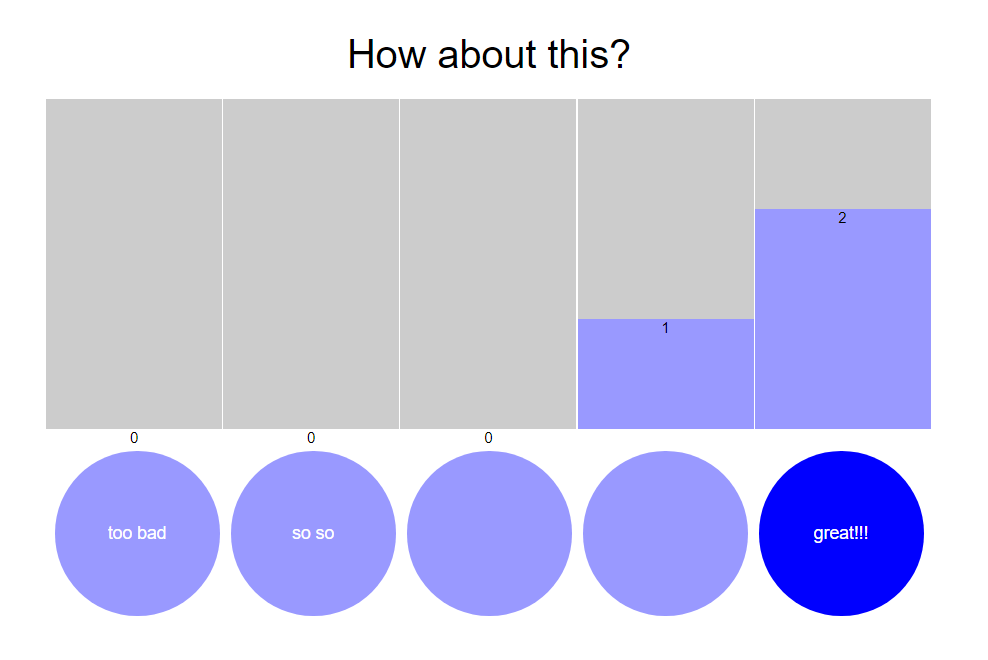
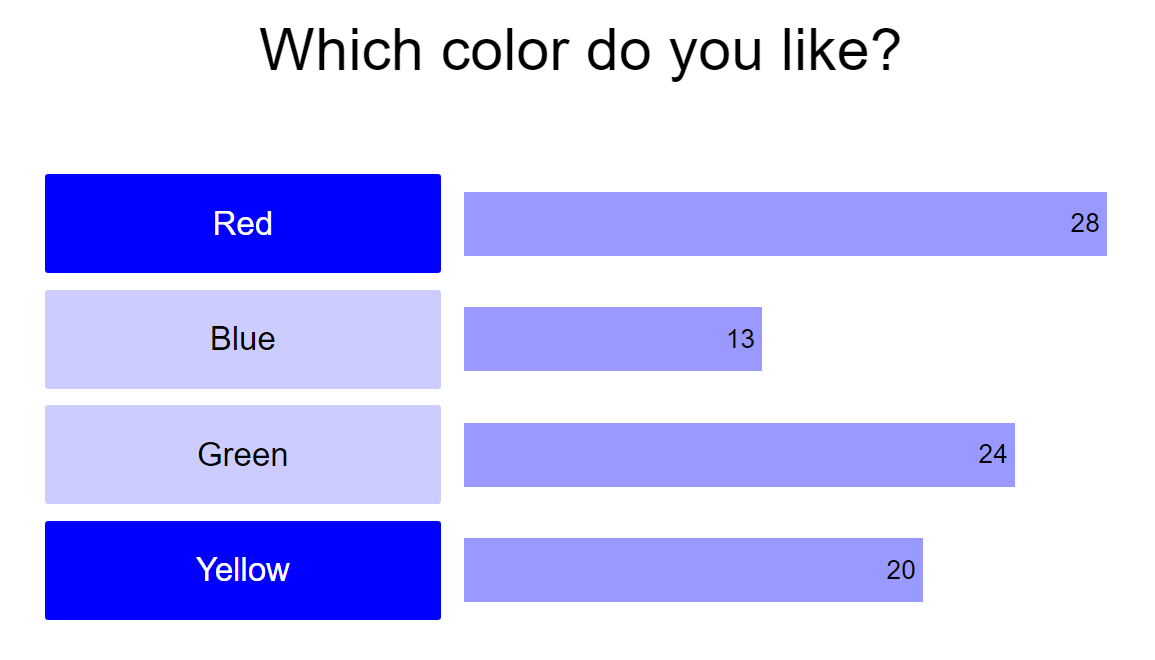
add multi-choice poll

diff --git a/public/stylesheets/style.css b/public/stylesheets/style.css
@@ -157,12 +157,12 @@ body {
 .message_post_button{
   width:100px;
   height:72px;
-  background-color: #9C9;
+  background-color: #99F;
 }
 
 .message_post_button:disabled{
   cursor: default;
-  color: #9C9;
+  color: #669;
   opacity: 0.6;
 }
 
@@ -195,7 +195,7 @@ body {
   display: inline-block;
   width:70px;
   height:64px;
-  background-color: #9C9;
+  background-color: #99F;
 }
 
 .agree_number_area{
@@ -205,8 +205,8 @@ body {
   font-size: 24px;
   height:64px;
   width:70px;
-  background-color: #9C9;
-  border:solid 1px #9C9;
+  background-color: #CCF;
+  border:solid 1px #CCF;
 }
 
 .list_message_area{
@@ -219,11 +219,11 @@ body {
   white-space: pre-wrap;
   overflow: auto;
   line-height: 16px;
-  border:solid 1px #9C9;
+  border:solid 1px #99F;
 }
 
 .same_message_area{
-  background-color: #CFC;
+  background-color: #CCF;
 }
 
 .v-enter-active, .v-leave-active {
@@ -286,6 +286,12 @@ body {
 .make_poll_input{
   font-size: 20px;
   margin-left:5px;
+}
+
+.make_poll_input_number{
+  font-size: 20px;
+  margin-left:5px;
+  width:100px;
 }
 
 .make_poll_botton_new{
@@ -462,10 +468,6 @@ body {
   transition-duration: .3s
 }
 
-.emphasizeBar{
-  background-color: #FF6;
-}
-
 .survey_button_area{
   width:160px;
 }
@@ -491,10 +493,58 @@ body {
   background: blue;
 }
 
+.space{
+  margin:50px;
+}
+
+.multi_survey_line_area{
+  text-align: left;
+  width:650px;
+  height:70px;
+  background-color: #FFF;
+  margin:auto;
+}
+
+.multi_survey_button_area{
+  vertical-align:middle;
+  display: inline-block;
+  width:250px;
+  height:70px;
+}
+.multi_survey_button{
+  width:240px;
+  height:60px;
+  font-size:20px;
+  background:#CCF;
+  margin-top:5px;
+  border:none;
+}
+
+.multi_survey_button_on{
+  background-color: #00F;
+  color:#FFF;
+}
+
+.multi_survey_bar_area{
+  vertical-align: middle;
+  display: inline-block;
+  width: 0px;
+  font-size: 16px;
+  color: #000;
+  background-color: #99F;
+  text-align: right;
+  padding:10px 0px 10px 0px;
+  transition-duration: .3s
+}
+
 .map_area{
   margin:auto;
   margin-top:50px;
   position: relative;
+}
+
+.emphasizeBar{
+  background-color: #FF6;
 }
 
 @keyframes pin_animation{
@@ -540,10 +590,6 @@ body {
     background-color: #CCC;
   }
 
-  .emphasizeBar{
-    background-color: #FF6;
-  }
-  
   .survey_button_area{
     width:60px;
   }
@@ -643,6 +689,30 @@ body {
 
   .votedBatsuStyle{
     font-size:80px;
+  }
+
+  .space{
+    margin:20px;
+  }
+
+  .multi_survey_line_area{
+    width:320px;
+  }
+  
+  .multi_survey_button_area{
+    width:130px;
+  }
+  .multi_survey_button{
+    width:120px;
+    font-size: 16px;
+  }
+  
+  .multi_survey_bar_area{
+    width: 0px;
+  }
+
+  .emphasizeBar{
+    background-color: #FF6;
   }
 
 }

diff --git a/modules/voteRouter.js b/modules/voteRouter.js
@@ -94,8 +94,34 @@ module.exports = function(io) {
                 next(createError(404));
             }
         }
-
     });
+
+    router.get('/multi', function(req, res, next) {
+        const title = req.query.title
+        const type  = req.query.type
+        let num = req.query.num
+        if(isNaN(num)) num = 5
+        const constraint = req.query.constraint
+        const ds = req.query.ds? JSON.parse(req.query.ds) : []
+
+        if(process.env.ANONYMOUS=="true"){
+            let checked = voteBox.checkPoll(title)
+            if(checked){
+                res.render('multi', { title: title, num:checked.METADATA.NUM, ds:checked.METADATA.DS, constraint:checked.METADATA.CONSTRAINT});
+            }else{
+                makeNewMultiVote(title,num,ds,constraint)
+                res.render('multi', { title: title, num:num, ds:ds, constraint:constraint});
+            }
+        }else{
+            let checked = voteBox.checkPoll(title)
+            if(checked){
+                res.render('multi', { title: title, num:checked.METADATA.NUM, ds:checked.METADATA.DS, constraint:checked.METADATA.CONSTRAINT});
+            }else{
+                next(createError(404));
+            }
+        }
+    });
+
 
     router.get('/map', function(req, res, next) {
         const title = req.query.title
@@ -173,6 +199,10 @@ module.exports = function(io) {
 
     function makeNewSurveyVote(title,num,d1,d2,d3,d4,d5){
         voteBox.setMetadata(title,"SURVEY",{"STEP":num,"D1":d1,"D2":d2,"D3":d3,"D4":d4,"D5":d5})
+    }
+
+    function makeNewMultiVote(title,num,ds,constraint){
+        voteBox.setMetadata(title,"MULTI",{"NUM":num,"DS":ds,"CONSTRAINT":constraint})
     }
 
     function makeNewMapVote(title,image,width){

diff --git a/modules/votebox.js b/modules/votebox.js
@@ -27,11 +27,10 @@ class VoteBox {
 
     static vote(title,sessionid,vote) {
         this.votebox[title]["RESULT"][sessionid]=vote
+//        for Test
+//        this.votebox[title]["RESULT"][sessionid+Date.now()]=vote
     }
 
-//    static vote(title,sessionid,vote) {
-//        this.votebox[title]["RESULT"][sessionid+Date.now()]=vote
-//    }
 
     static voteMulti(title,sessionid,vote) {
         this.votebox[title]["RESULT"][sessionid+Date.now()]=vote
@@ -99,6 +98,16 @@ class VoteBox {
             for(let key in result){
                 returnBox[result[key]] = (returnBox[result[key]])? returnBox[result[key]]+1 : 1;
             }
+        }else if(type === "MULTI"){
+            returnBox["NUM"]=this.votebox[title]["METADATA"]["NUM"]
+            returnBox["DS"]=this.votebox[title]["METADATA"]["DS"]
+            returnBox["CONSTRAINT"]=this.votebox[title]["METADATA"]["CONSTRAINT"]
+            let result = this.votebox[title]["RESULT"]
+            let countup = new Array(Number(returnBox["NUM"])).fill(0)
+            for(let key in result){
+                countup = result[key].map((el,index)=>countup[index]+=el)
+            }
+            returnBox["COUNTUP"]=countup
         }else if(type === "MAP"){
             returnBox["IMG"] =this.votebox[title]["METADATA"]["IMG"]
             returnBox["IMG_w"] =this.votebox[title]["METADATA"]["IMG_w"]

diff --git a/modules/controlRouter.js b/modules/controlRouter.js
@@ -21,6 +21,10 @@ module.exports = function(io) {
         voteBox.setMetadata(title,"SURVEY",{"STEP":num,"D1":d1,"D2":d2,"D3":d3,"D4":d4,"D5":d5})
     }
 
+    function makeNewMultiVote(title,num,ds,constraint){
+        voteBox.setMetadata(title,"MULTI",{"NUM":num,"DS":ds,"CONSTRAINT":constraint})
+    }
+
     function makeNewMapVote(title,image,width){
         voteBox.setMetadata(title,"MAP",{"IMG":image,"IMG_w":width})
     }
@@ -75,6 +79,14 @@ module.exports = function(io) {
                 if(num < 2 || num > 5) num=5
 
                 makeNewSurveyVote(title,num,ds[0],ds[1],ds[2],ds[3],ds[4],ds[5])
+            }else if(type === "MULTI"){
+                let num = req.body.new_multi_survey_num
+                let ds  = req.body.new_multi_survey_displays
+                let cons= req.body.new_multi_constraint
+
+                if(isNaN(num))num=5
+                if(!ds) ds = []
+                makeNewMultiVote(title,num,ds,cons)
             }else if(type === "MAP"){
                 let image = req.body.image
                 const width = req.body.width
